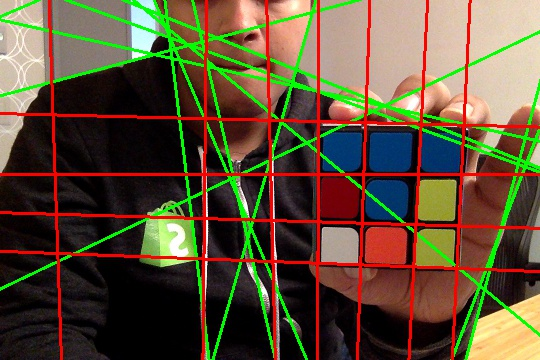
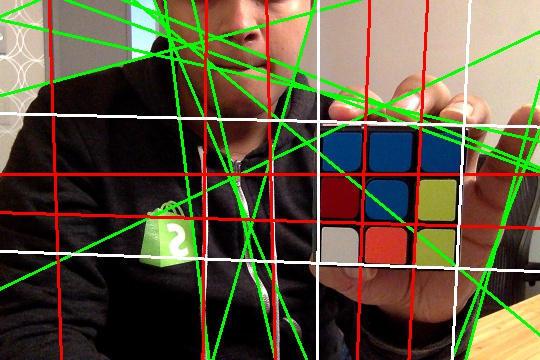
tracking improvements, there is a bug for diagonal cube still

Changed region(s): [[0.0, 0.0, 1.0, 1.0]]

diff --git a/RCS.py b/RCS.py
@@ -1,10 +1,9 @@
 import cv2
-import numpy as np
 import math
+import numpy as np
 
-
-height = -1
-width = -1
+height, width = -1, -1
+thres = 65
 
 def standardizeLines(v):
     rho = v[0][0]
@@ -14,16 +13,16 @@ def standardizeLines(v):
         theta -= math.pi
     return [rho, theta, -1]
 
-def distanceBetween(line1, line2):
+def distanceBetweenLines(line1, line2):
     extreme_x = (0,1,2,width,width-1,width-2)
     extreme_y = (0,1,2,height,height-1,height-2)
     y1l, y1r, x1b, x1t = extreme_xy_values(line1)
     y2l, y2r, x2b, x2t = extreme_xy_values(line2)
     s_thres = 30
     if x1b in extreme_x and x2b in extreme_x and x1t in extreme_x and x2t in extreme_x:
-        return ( abs(x2b-x1b) + abs(x2t-x1t) )/2
-    elif y1l in extreme_y and y2l in extreme_y and y1r in extreme_y and y2r in extreme_y:
         return ( abs(y2l-y1l) + abs(y2r-y1r) )/2
+    elif y1l in extreme_y and y2l in extreme_y and y1r in extreme_y and y2r in extreme_y:
+        return ( abs(x2b-x1b) + abs(x2t-x1t) )/2
     else:
         return (math.sqrt( abs(x2b-x1b)**2 + abs(y2l-y1l) ) + math.sqrt( abs(x2t-x1t)**2 + abs(y2r-y1r) ))/2
 
@@ -42,7 +41,7 @@ def extreme_xy_values(line):
     y_right = y_left + slope * width
     y_left = min(max(y_left, 0), height)
     y_right = min(max(y_right, 0), height)
-    # x_bottom = y_left/float(slope)
+
     x_bottom = (y_left-y0)/slope + x0
     x_top = (y_right-y0)/slope + x0
     x_bottom = min(max(x_bottom, 0), width)
@@ -51,7 +50,7 @@ def extreme_xy_values(line):
     return int(y_left), int(y_right), int(x_bottom), int(x_top)
 
 def are_lines_similar(line1, line2):
-    # TODO BUG: lines in from of x will be classified as similar, should not!!!
+    #todo lines in shape of X return true, should be false
     extreme_x = (0,1,2,width,width-1,width-2)
     extreme_y = (0,1,2,height,height-1,height-2)
     y1l, y1r, x1b, x1t = extreme_xy_values(line1)
@@ -65,15 +64,56 @@ def are_lines_similar(line1, line2):
         return True
     return False
 
+def getIntersection(line1, line2):
+    a = np.array([[math.cos(line1[1]), math.sin(line1[1])], [math.cos(line2[1]), math.sin(line2[1])]])
+    b = np.array([line1[0], line2[0]])
+    x = np.linalg.solve(a, b)
+    return (x[0], x[1])
+
+def getIntersections(lines):
+    intersections = []
+    intersections.append(getIntersection(lines[1], lines[2]))
+    intersections.append(getIntersection(lines[0], lines[2]))
+    intersections.append(getIntersection(lines[0], lines[3]))
+    intersections.append(getIntersection(lines[1], lines[3])) 
+    return intersections
+
+def getPointAlongLine(ends, factor):
+    x1, y1 = ends[0]
+    x2, y2 = ends[1]
+
+    x = x1 + (x2-x1) * factor 
+    y = y1 + (y2-y1) * factor
+
+    return x, y 
+
+def getExpectedPoints(isecs):
+    points = []
+    prev, next = 0, 1
+    while prev != 4:
+        points.append(getPointAlongLine([isecs[prev], isecs[next]], float(1)/3))
+        points.append(getPointAlongLine([isecs[prev], isecs[next]], float(2)/3))
+        prev += 1
+        next += 1
+        if next == 4:
+            next = 0
+            
+    points.append(getPointAlongLine([points[0], points[5]], float(1)/3))
+    points.append(getPointAlongLine([points[0], points[5]], float(2)/3))
+
+    points.append(getPointAlongLine([points[1], points[4]], float(1)/3))
+    points.append(getPointAlongLine([points[1], points[4]], float(2)/3))
+    return points
+
 def drawLine(img, rho, theta, color):
     a = math.cos(theta)
     b = math.sin(theta)
     x0 = a*rho
     y0 = b*rho
-    x1 = int(x0 + 1000*(-b))
-    y1 = int(y0 + 1000*(a))
-    x2 = int(x0 - 1000*(-b))
-    y2 = int(y0 - 1000*(a))
+    x1 = int(x0 - 1000*b)
+    x2 = int(x0 + 1000*b)
+    y1 = int(y0 + 1000*a)
+    y2 = int(y0 - 1000*a)
     # yl, yr, xb, xt = extreme_xy_values((rho,theta))
     # cv2.line(img,(0,int(yl)),(width,int(yl)),(0,0,0),2)
     # cv2.line(img,(0,int(yr)),(width,int(yr)),(0,0,0),2)
@@ -104,29 +144,11 @@ def main():
             lines = map(standardizeLines, lines)
             lineGroups = {}
 
-            if not isBlacklist:
-                if len(lines) < 35:
-                    thres -= 2
-                if len(lines) > 50:
-                    thres += 2
-
-            # print str(thres) + "|" + str(len(lines))
-
             for i in range(0, len(lines)):
-
-                if isBlacklist:
-                    blacklist.append((lines[i][0], lines[i][1]))
-                    continue
-
-                if (lines[i][0], lines[i][1]) in blacklist:
-                    continue
-
-                # drawLine(img, lines[i][0], lines[i][1], (255,0,0))
                 foundGroup = False
 
                 for j in range(0, i):
-                    if (lines[j][0], lines[j][1]) in blacklist:
-                        continue
+                    drawLine(img, lines[i][0], lines[i][1], (255,0,0))
                     if i != 0 and are_lines_similar(lines[i], lines[j]):
                         # print "Lines: " + str(extreme_xy_values(lines[i])) + " and " + str(extreme_xy_values(lines[j])) + " are similar"
                         lines[i][2] = lines[j][2]
@@ -139,38 +161,77 @@ def main():
                     lineGroups[len(lineGroups)] = [lines[i]]
 
             avgLines = []
-
             for index, lines in lineGroups.iteritems():
                 rho = 0
                 theta = 0
                 for l in lines:
                     rho += l[0]
                     theta += l[1]
+
                 rho /= len(lines)
                 theta /= len(lines)
-                # drawLine(img, rho, theta, (0,255,0))
+                drawLine(img, rho, theta, (0,255,0))
                 avgLines.append([rho, theta])
 
-            parallelPairs = {}
-            perpendicularFoursome = []
+            parallelPairs = []
             
             for i in range(0, len(avgLines)):
                 for j in range(0, i):
-                    if i != j and abs(avgLines[i][1] - avgLines[j][1]) <= 10:
-                        avg = (avgLines[i][1] + avgLines[j][1])/2
-                        parallelPairs[avg] = [avgLines[i], avgLines[j]]
+                    if i != j and abs(avgLines[i][1] - avgLines[j][1]) <= math.radians(3):
+                        avgAngle = (avgLines[i][1] + avgLines[j][1])/2
+                        dist = distanceBetweenLines(avgLines[i], avgLines[j])
+                        if dist > 50: #Lines too close together do not count
+                            print dist
+                            parallelPairs.append((avgAngle, dist, [avgLines[i], avgLines[j]]))
 
-            for avg_i in parallelPairs:
-                for avg_j in parallelPairs:
-                    angle_diff = abs(avg_i - avg_j)
-                    dist_diff_i = distanceBetween(parallelPairs[avg_i][0], parallelPairs[avg_i][1])
-                    dist_diff_j = distanceBetween(parallelPairs[avg_j][0], parallelPairs[avg_j][1])
-                    dist_diff = abs(dist_diff_i - dist_diff_j)
-                    if angle_diff >= math.radians(80) and angle_diff <= math.radians(100) and dist_diff <= 10:
-                        arrLines = parallelPairs[avg_i] + parallelPairs[avg_j]
-                        perpendicularFoursome.append(arrLines)
+            index = 0
+            intersectionPoints = []
+            perpendicularFoursome = []
+
+            for i in range(0, len(parallelPairs)):
+                for j in range (0, i):
+                    if i == j:
+                        continue
+
+                    l1 = parallelPairs[i]
+                    l2 = parallelPairs[j]
+                    angle_diff = abs(parallelPairs[i][0] - parallelPairs[j][0])
+                    dist_diff = abs(parallelPairs[i][1] - parallelPairs[j][1])
+                    if angle_diff >= math.radians(80) and angle_diff <= math.radians(100) and dist_diff <= 20:
+                        arrLines = parallelPairs[i][2] + parallelPairs[j][2]
+                        
                         for line in arrLines:
                             drawLine(img, line[0], line[1], (0,0,255))
+                        
+                        intersections = getIntersections(arrLines)
+                        
+                        for point in intersections:
+                            if not point in intersectionPoints:
+                                intersectionPoints.append(point)
+                        
+                        expectedPoints = getExpectedPoints(intersections)
+                        perpendicularFoursome.append((arrLines, expectedPoints))
+                        index += 1
+
+            topLines = None
+            topScore = -1
+
+            for obj in perpendicularFoursome:
+                lines, expectedPoints = obj
+                score = 0
+                for ePoint in expectedPoints:
+                    for iPoint in intersectionPoints:
+                        if math.sqrt( (ePoint[0] - iPoint[0])**2 + (ePoint[1] - iPoint[1])**2 ) < 10:
+                            score += 1
+                            break
+                if score > topScore:
+                    topLines = lines
+                    topScore = score
+
+            print topScore
+            if topLines is not None:
+                for line in topLines:
+                    drawLine(img, line[0], line[1], (255,255,255))
 
         elif lines is not None and len(lines) > 100:
             thres += 5

diff --git a/hough.py b/hough.py
@@ -67,17 +67,17 @@ def are_lines_similar(line1, line2):
     return False
 
 def getIntersection(line1, line2):
-    a = np.array([[cos(line1[1]), sin(line1[1])], [cos(line2[1]), sin(line2[1])]])
+    a = np.array([[math.cos(line1[1]), math.sin(line1[1])], [math.cos(line2[1]), math.sin(line2[1])]])
     b = np.array([line1[0], line2[0]])
     x = np.linalg.solve(a, b)
     return (x[0], x[1])
 
 def getIntersections(lines):
     intersections = []
+    intersections.append(getIntersection(lines[1], lines[2]))
     intersections.append(getIntersection(lines[0], lines[2]))
     intersections.append(getIntersection(lines[0], lines[3]))
-    intersections.append(getIntersection(lines[1], lines[2]))
-    intersections.append(getIntersection(lines[1], lines[3]))
+    intersections.append(getIntersection(lines[1], lines[3])) 
     return intersections
 
 def getPointAlongLine(ends, factor):
@@ -93,18 +93,18 @@ def getExpectedPoints(isecs):
     points = []
     prev, next = 0, 1
     while prev != 4:
-        points.append(getPointAlongLine(isecs[prev], isecs[next]), float(1)/3)
-        points.append(getPointAlongLine(isecs[prev], isecs[next]), float(2)/3)
+        points.append(getPointAlongLine([isecs[prev], isecs[next]], float(1)/3))
+        points.append(getPointAlongLine([isecs[prev], isecs[next]], float(2)/3))
         prev += 1
         next += 1
         if next == 4:
             next = 0
             
-    points.append(getPointAlongLine(points[0], points[5]), float(1)/3)
-    points.append(getPointAlongLine(points[0], points[5]), float(2)/3)
+    points.append(getPointAlongLine([points[0], points[5]], float(1)/3))
+    points.append(getPointAlongLine([points[0], points[5]], float(2)/3))
 
-    points.append(getPointAlongLine(points[1], points[4]), float(1)/3)
-    points.append(getPointAlongLine(points[1], points[4]), float(2)/3)
+    points.append(getPointAlongLine([points[1], points[4]], float(1)/3))
+    points.append(getPointAlongLine([points[1], points[4]], float(2)/3))
     return points
 
 def drawLine(img, rho, theta, color):
@@ -174,11 +174,13 @@ if lines is not None:
             if i != j and abs(avgLines[i][1] - avgLines[j][1]) <= math.radians(3):
                 avgAngle = (avgLines[i][1] + avgLines[j][1])/2
                 dist = distanceBetweenLines(avgLines[i], avgLines[j])
-                parallelPairs.append((avgAngle, dist, [avgLines[i], avgLines[j]]))
+                if dist > 50: #Lines too close together do not count
+                    print dist
+                    parallelPairs.append((avgAngle, dist, [avgLines[i], avgLines[j]]))
 
     index = 0
     intersectionPoints = []
-    perpendicularFoursome = {}
+    perpendicularFoursome = []
 
     for i in range(0, len(parallelPairs)):
         for j in range (0, i):
@@ -200,14 +202,14 @@ if lines is not None:
                 intersections = getIntersections(arrLines)
                 
                 for point in intersections:
-                    cv2.circle(imgNew, point, 5, (255,0,0), 2)
+                    cv2.circle(imgNew, tuple(map(lambda x: int(x), point)), 5, (255,0,0), 2)
                     if not point in intersectionPoints:
                         intersectionPoints.append(point)
                 
                 expectedPoints = getExpectedPoints(intersections)
-                perpendicularFoursome[arrLines] = expectedPoints
+                perpendicularFoursome.append((arrLines, expectedPoints))
                 for point in expectedPoints:
-                    cv2.circle(imgNew, point, 5, (0,255,0), 7)
+                    cv2.circle(imgNew, tuple(map(lambda x: int(x), point)), 10, (0,255,0), 1)
 
                 cv2.imwrite('lineGroup'+str(index)+'.jpg',imgNew)
                 index += 1
@@ -215,17 +217,22 @@ if lines is not None:
     topLines = None
     topScore = -1
 
-    for lines, expectedPoints in perpendicularFoursome.iteritems():
+    for obj in perpendicularFoursome:
+        lines, expectedPoints = obj
         score = 0
         for ePoint in expectedPoints:
-            if pointIsReal(ePoint, intersectionPoints):
-                score += 1
+            for iPoint in intersectionPoints:
+                if math.sqrt( (ePoint[0] - iPoint[0])**2 + (ePoint[1] - iPoint[1])**2 ) < 10:
+                    score += 1
+                    break
         if score > topScore:
             topLines = lines
             topScore = score
 
+    print topScore
+
     for line in topLines:
-        drawLine(img, line[0], line[1], (0,0,255))
+        drawLine(img, line[0], line[1], (255,255,255))
 
 # drawLine(img, 50, 0, (0,0,255))
 # drawLine(img, 50, math.pi/2, (0,0,125))
